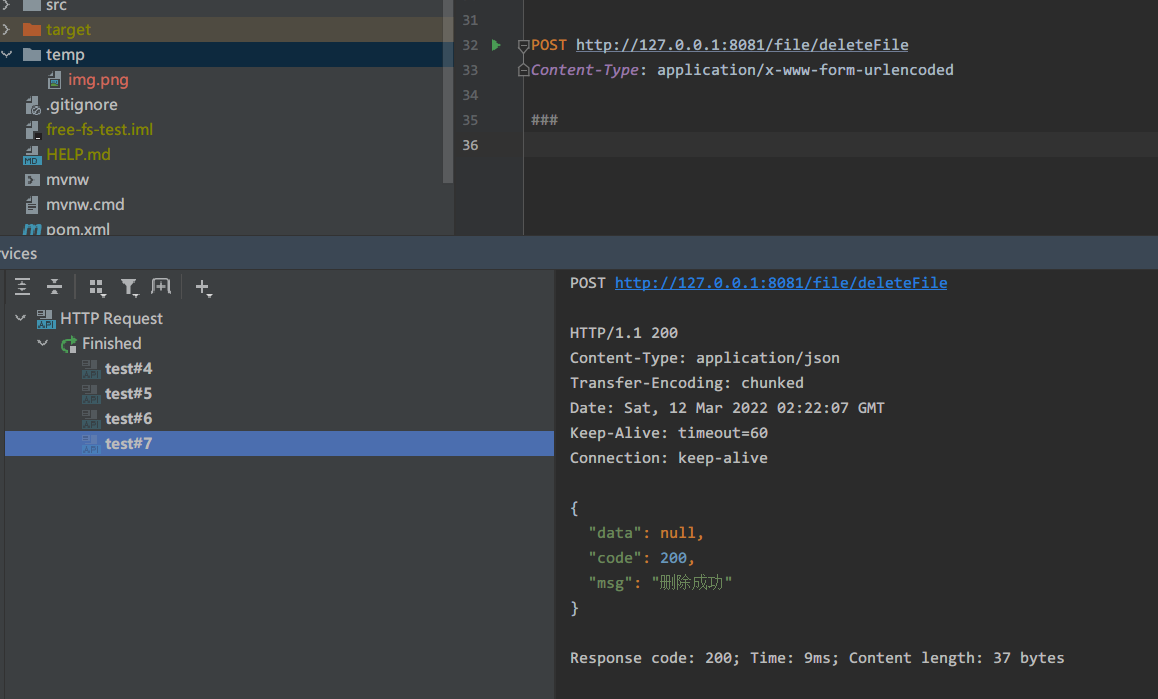
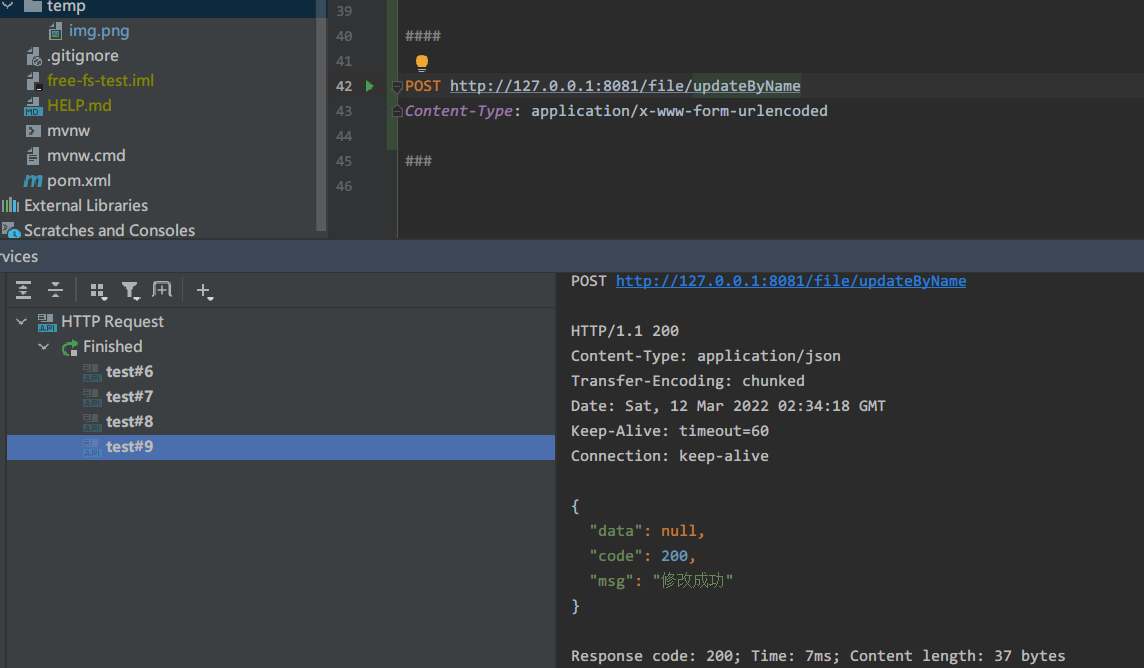
2.2 新增2个方法 1.移动文件 2.修改名称

Changed region(s): [[0.0, 0.0, 1.0, 0.6886], [0.4895, 0.9281, 0.9484, 1.0], [0.4895, 0.7485, 0.6425, 0.8982]]

diff --git a/src/main/java/com/free/fs/controller/FileController.java b/src/main/java/com/free/fs/controller/FileController.java
@@ -72,4 +72,30 @@ public class FileController {
         fileService.delete(url);
         return R.succeed("删除成功");
     }
+
+
+    /**
+     * 移动文件
+     *
+     * @param ids
+     * @param parentId
+     */
+    @PostMapping("/move")
+    public R move(String ids, Long parentId) {
+        fileService.move(ids, parentId);
+        return R.succeed("移动成功");
+    }
+
+    /**
+     * 修改名称
+     *
+     * @param pojo
+     */
+    @PostMapping("/updateByName")
+    public R upload(FilePojo pojo) {
+        fileService.updateByName(pojo);
+        return R.succeed("修改成功");
+
+    }
+
 }

diff --git a/src/main/java/com/free/fs/service/impl/AbstractIFileService.java b/src/main/java/com/free/fs/service/impl/AbstractIFileService.java
@@ -46,4 +46,15 @@ public abstract class AbstractIFileService implements FileService {
         System.out.println(" AbstractIFileService addFolder 调用了删除文件夹");
         return false;
     }
+
+    @Override
+    public boolean move(String ids, Long parentId) {
+        System.out.println(" AbstractIFileService move 调用了移动文件");
+        return true;
+    }
+    @Override
+    public boolean updateByName(FilePojo pojo) {
+        System.out.println(" AbstractIFileService updateByName 调用了重命名");
+        return true;
+    }
 }

diff --git a/src/main/java/com/free/fs/service/FileService.java b/src/main/java/com/free/fs/service/FileService.java
@@ -35,4 +35,20 @@ public interface FileService {
      * @return
      */
     boolean deleteByIds(Long id);
+
+    /**
+     * 移动文件
+     *
+     * @param ids
+     * @param parentId
+     * @return
+     */
+    boolean move(String ids, Long parentId);
+    /**
+     * 重命名
+     *
+     * @param pojo
+     * @return
+     */
+    boolean updateByName(FilePojo pojo);
 }
